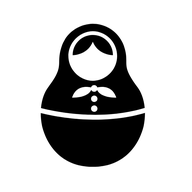
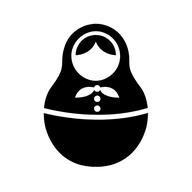
Add files via upload

Changed region(s): [[0.1875, 0.0938, 0.7812, 0.875], [0.375, 0.8438, 0.4688, 0.875], [0.375, 0.4688, 0.4375, 0.5312]]

diff --git a/reading.html b/reading.html
@@ -1,0 +1,299 @@
+<!DOCTYPE html>
+<html lang="en">
+<head>
+<meta charset="UTF-8">
+<meta name="viewport" content="width=device-width, initial-scale=1.0">
+<title>Русский — Reading</title>
+<link rel="manifest" href="manifest.json">
+<meta name="apple-mobile-web-app-capable" content="yes">
+<meta name="apple-mobile-web-app-status-bar-style" content="default">
+<meta name="apple-mobile-web-app-title" content="Русский">
+<meta name="theme-color" content="#f5f3ee">
+<style>
+  * { box-sizing: border-box; margin: 0; padding: 0; }
+  body { font-family: Georgia, serif; background: #f5f3ee; color: #1a1a1a; min-height: 100vh; padding: 1.5rem 1rem 3rem; }
+  .container { width: 100%; max-width: 620px; margin: 0 auto; }
+
+  .back-btn { display: inline-block; font-size: 0.8rem; color: #888; text-decoration: none; margin-bottom: 1.25rem; }
+  .back-btn:hover { color: #444; }
+
+  h1 { font-size: 1.4rem; font-weight: bold; margin-bottom: 0.25rem; }
+  .passage-label { font-size: 0.78rem; color: #888; margin-bottom: 1.75rem; }
+
+  /* Passage box */
+  .passage-box {
+    background: #fff;
+    border: 1px solid #e0ddd6;
+    border-radius: 10px;
+    padding: 1.25rem 1.4rem;
+    margin-bottom: 1.75rem;
+    line-height: 1.75;
+  }
+  .passage-title {
+    font-size: 1rem;
+    font-weight: bold;
+    margin-bottom: 0.9rem;
+    color: #1a1a1a;
+  }
+  .passage-intro {
+    font-size: 0.82rem;
+    color: #666;
+    margin-bottom: 0.9rem;
+    font-style: italic;
+  }
+  .dialogue-line { display: flex; gap: 0.6rem; margin-bottom: 0.35rem; align-items: baseline; }
+  .speaker { font-weight: bold; min-width: 1.4rem; font-size: 0.95rem; }
+  .line-text { font-size: 0.95rem; }
+
+  /* Questions */
+  .questions-title { font-size: 0.78rem; text-transform: uppercase; letter-spacing: 0.07em; color: #888; margin-bottom: 1rem; }
+  .question-block { margin-bottom: 1.5rem; }
+  .question-text { font-size: 0.95rem; margin-bottom: 0.65rem; line-height: 1.4; }
+  .options { display: flex; flex-direction: column; gap: 8px; }
+  .opt-btn {
+    background: #fff;
+    border: 1px solid #ddd;
+    border-radius: 8px;
+    padding: 0.6rem 0.9rem;
+    font-size: 0.9rem;
+    font-family: Georgia, serif;
+    text-align: left;
+    cursor: pointer;
+    color: #1a1a1a;
+    transition: background 0.12s, border-color 0.12s;
+    line-height: 1.3;
+  }
+  .opt-btn:hover:not(:disabled) { background: #f0ede6; border-color: #bbb; }
+  .opt-btn.correct { background: #e6f4ea; border-color: #4caf50; color: #1a4a1e; }
+  .opt-btn.wrong { background: #fdecea; border-color: #e57373; color: #5c1010; }
+  .opt-btn.revealed { background: #e6f4ea; border-color: #4caf50; color: #1a4a1e; }
+  .opt-btn:disabled { cursor: default; }
+
+  /* Score / results */
+  .score-bar {
+    display: flex;
+    justify-content: space-between;
+    align-items: center;
+    margin-bottom: 1.5rem;
+    font-size: 0.85rem;
+    color: #888;
+  }
+  .score-display { font-size: 0.95rem; color: #1a1a1a; }
+
+  .results-box {
+    display: none;
+    background: #fff;
+    border: 1px solid #e0ddd6;
+    border-radius: 10px;
+    padding: 1.5rem;
+    text-align: center;
+    margin-top: 1.5rem;
+  }
+  .results-score { font-size: 2rem; font-weight: bold; margin-bottom: 0.4rem; }
+  .results-label { font-size: 0.85rem; color: #888; margin-bottom: 1.5rem; }
+  .results-btns { display: flex; gap: 10px; justify-content: center; flex-wrap: wrap; }
+  .nav-btn {
+    background: #1a1a1a;
+    color: #fff;
+    border: none;
+    border-radius: 8px;
+    padding: 0.65rem 1.4rem;
+    font-size: 0.9rem;
+    font-family: Georgia, serif;
+    cursor: pointer;
+    text-decoration: none;
+    display: inline-block;
+    transition: background 0.15s;
+  }
+  .nav-btn:hover { background: #333; }
+  .nav-btn.secondary {
+    background: transparent;
+    color: #1a1a1a;
+    border: 1px solid #ccc;
+  }
+  .nav-btn.secondary:hover { background: #f0ede6; }
+</style>
+</head>
+<body>
+<div class="container">
+  <a class="back-btn" href="index.html">← Home</a>
+  <h1>Reading Exercises</h1>
+  <p class="passage-label" id="passage-label"></p>
+
+  <div class="passage-box" id="passage-box"></div>
+
+  <div class="score-bar">
+    <span class="questions-title">Questions</span>
+    <span class="score-display" id="score-display"></span>
+  </div>
+
+  <div id="questions-area"></div>
+
+  <div class="results-box" id="results-box">
+    <div class="results-score" id="results-score"></div>
+    <div class="results-label" id="results-label"></div>
+    <div class="results-btns">
+      <button class="nav-btn secondary" onclick="goHome()">← Home</button>
+      <button class="nav-btn" onclick="nextPassage()">Next passage →</button>
+    </div>
+  </div>
+</div>
+
+<script>
+const PASSAGES = [
+  {
+    id: "metro_conversation",
+    title: "Разговор в метро",
+    difficulty: "easy",
+    intro: "А bumps into his fellow student Б, who has a companion В.",
+    dialogue: [
+      { speaker: "А", text: "Здравствуй, Ваня. Куда ты едешь?" },
+      { speaker: "Б", text: "Домой, на улицу Волгина. А ты едешь в университет?" },
+      { speaker: "А", text: "Нет, я тоже еду домой. Я теперь живу на улице Вавилова." },
+      { speaker: "Б", text: "Познакомьтесь. Это моя подруга Мари, она англичанка." },
+      { speaker: "В", text: "Здравствуйте, Миша." },
+      { speaker: "А", text: "Простите, вас зовут Мэри?" },
+      { speaker: "В", text: "Нет, Мари. Это французское имя. Но я не говорю по-французски." },
+    ],
+    questions: [
+      {
+        q: "What is the name of А?",
+        opts: ["Ваня", "Миша", "Мари", "Борис"],
+        a: 1
+      },
+      {
+        q: "Where does А now live?",
+        opts: ["улица Волгина", "улица Вавилова", "улица Пушкина", "улица Ленина"],
+        a: 1
+      },
+      {
+        q: "Where is Б going?",
+        opts: ["To university", "To the shops", "Home", "To the metro"],
+        a: 2
+      },
+      {
+        q: "What nationality is В?",
+        opts: ["French", "Russian", "American", "English"],
+        a: 3
+      },
+      {
+        q: "Which language does В say she does not speak?",
+        opts: ["Russian", "English", "French", "German"],
+        a: 2
+      },
+    ]
+  }
+];
+
+let passageIdx = 0;
+let answered = [];
+let correct = 0;
+
+function loadPassage() {
+  const p = PASSAGES[passageIdx];
+  answered = new Array(p.questions.length).fill(false);
+  correct = 0;
+
+  // Label
+  document.getElementById('passage-label').textContent =
+    `Passage ${passageIdx + 1} of ${PASSAGES.length} — ${p.difficulty}`;
+
+  // Passage box
+  const box = document.getElementById('passage-box');
+  let html = `<div class="passage-title">${p.title}</div>`;
+  if (p.intro) html += `<div class="passage-intro">${p.intro}</div>`;
+  for (const line of p.dialogue) {
+    html += `<div class="dialogue-line"><span class="speaker">${line.speaker}:</span><span class="line-text">${line.text}</span></div>`;
+  }
+  box.innerHTML = html;
+
+  // Score
+  updateScore();
+
+  // Questions
+  const area = document.getElementById('questions-area');
+  area.innerHTML = '';
+  p.questions.forEach((q, qi) => {
+    const block = document.createElement('div');
+    block.className = 'question-block';
+    block.id = `q${qi}`;
+
+    const qtext = document.createElement('div');
+    qtext.className = 'question-text';
+    qtext.textContent = `${qi + 1}. ${q.q}`;
+    block.appendChild(qtext);
+
+    const opts = document.createElement('div');
+    opts.className = 'options';
+    q.opts.forEach((opt, oi) => {
+      const btn = document.createElement('button');
+      btn.className = 'opt-btn';
+      btn.textContent = opt;
+      btn.onclick = () => handleAnswer(qi, oi);
+      opts.appendChild(btn);
+    });
+    block.appendChild(opts);
+    area.appendChild(block);
+  });
+
+  document.getElementById('results-box').style.display = 'none';
+}
+
+function handleAnswer(qi, oi) {
+  if (answered[qi]) return;
+  answered[qi] = true;
+
+  const p = PASSAGES[passageIdx];
+  const q = p.questions[qi];
+  const block = document.getElementById(`q${qi}`);
+  const btns = block.querySelectorAll('.opt-btn');
+
+  btns.forEach(b => b.disabled = true);
+
+  if (oi === q.a) {
+    btns[oi].classList.add('correct');
+    correct++;
+  } else {
+    btns[oi].classList.add('wrong');
+    btns[q.a].classList.add('revealed');
+  }
+
+  updateScore();
+
+  if (answered.every(Boolean)) {
+    setTimeout(showResults, 600);
+  }
+}
+
+function updateScore() {
+  const total = PASSAGES[passageIdx].questions.length;
+  const done = answered.filter(Boolean).length;
+  document.getElementById('score-display').textContent =
+    done > 0 ? `${correct} / ${done} correct` : '';
+}
+
+function showResults() {
+  const total = PASSAGES[passageIdx].questions.length;
+  const box = document.getElementById('results-box');
+  document.getElementById('results-score').textContent = `${correct} / ${total}`;
+  const pct = Math.round((correct / total) * 100);
+  let label = pct === 100 ? 'Perfect! 🎉' : pct >= 60 ? 'Good effort — review the answers above.' : 'Keep practising — the answers are highlighted above.';
+  document.getElementById('results-label').textContent = label;
+  box.style.display = 'block';
+  box.scrollIntoView({ behavior: 'smooth', block: 'nearest' });
+}
+
+function nextPassage() {
+  passageIdx = (passageIdx + 1) % PASSAGES.length;
+  window.scrollTo({ top: 0, behavior: 'smooth' });
+  loadPassage();
+}
+
+function goHome() {
+  window.location.href = 'index.html';
+}
+
+loadPassage();
+</script>
+</body>
+</html>

diff --git a/index.html b/index.html
@@ -51,6 +51,10 @@
     <div class="tool-title">Verb Conjugator</div>
     <div class="tool-desc">3 random verbs — 18 forms per session</div>
   </a>
+  <a class="tool-link" href="reading.html">
+    <div class="tool-title">Reading Exercises</div>
+    <div class="tool-desc">Read a passage and answer comprehension questions</div>
+  </a>
   <a class="tool-link" href="stats.html">
     <div class="tool-title">Stats</div>
     <div class="tool-desc">Track your progress across all exercises</div>

diff --git a/sw.js b/sw.js
@@ -1,9 +1,10 @@
-const CACHE = 'russian-tools-v8';
+const CACHE = 'russian-tools-v9';
 const FILES = [
   '/russian-tools/',
   '/russian-tools/index.html',
   '/russian-tools/ch123_quiz.html',
   '/russian-tools/russian_verb_conjugator.html',
+  '/russian-tools/reading.html',
   '/russian-tools/stats.html',
   '/russian-tools/manifest.json',
   '/russian-tools/icon.png',